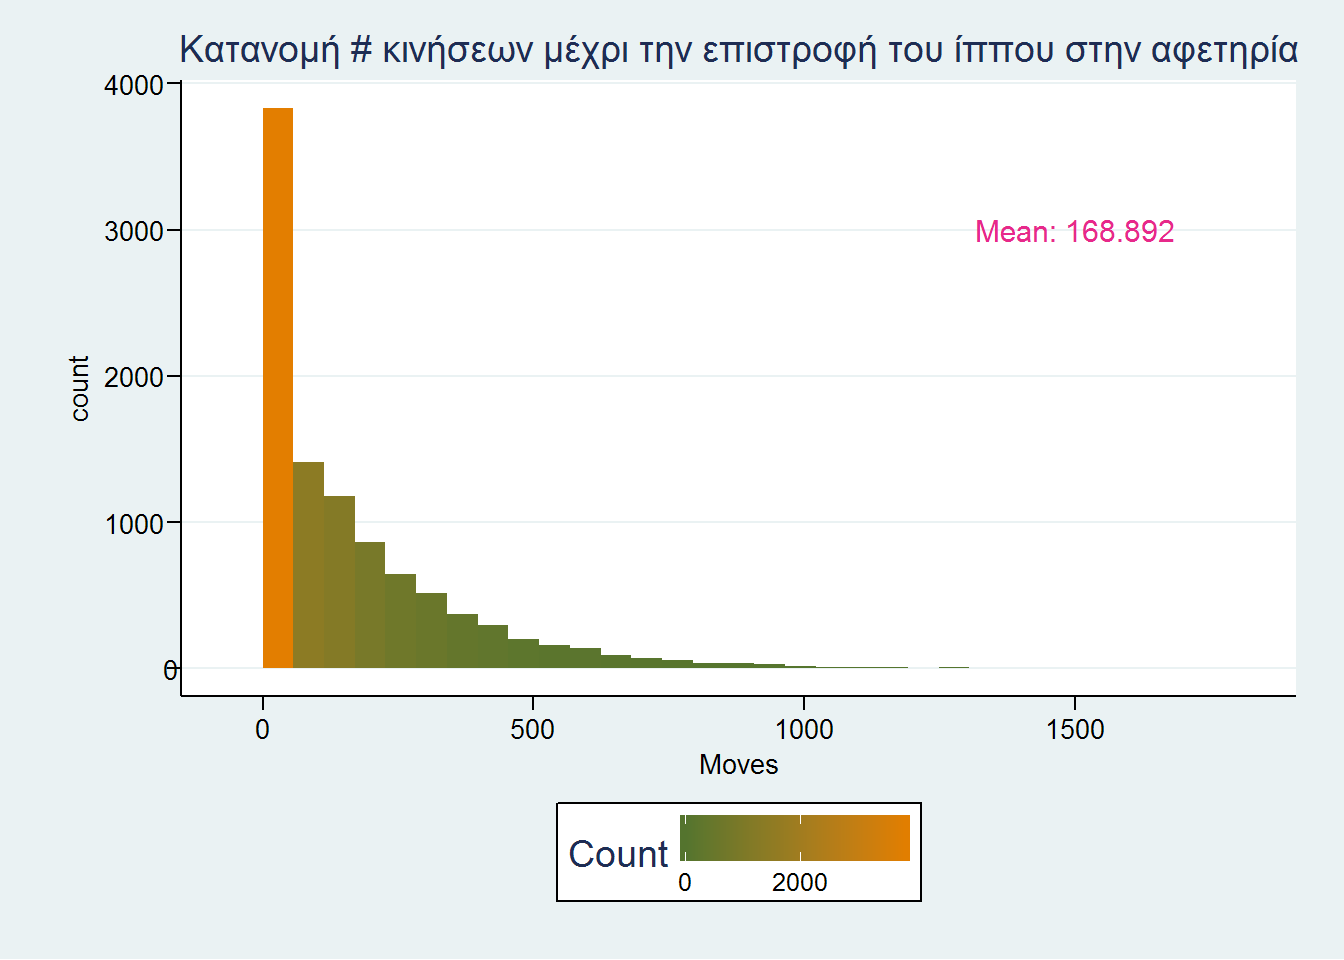
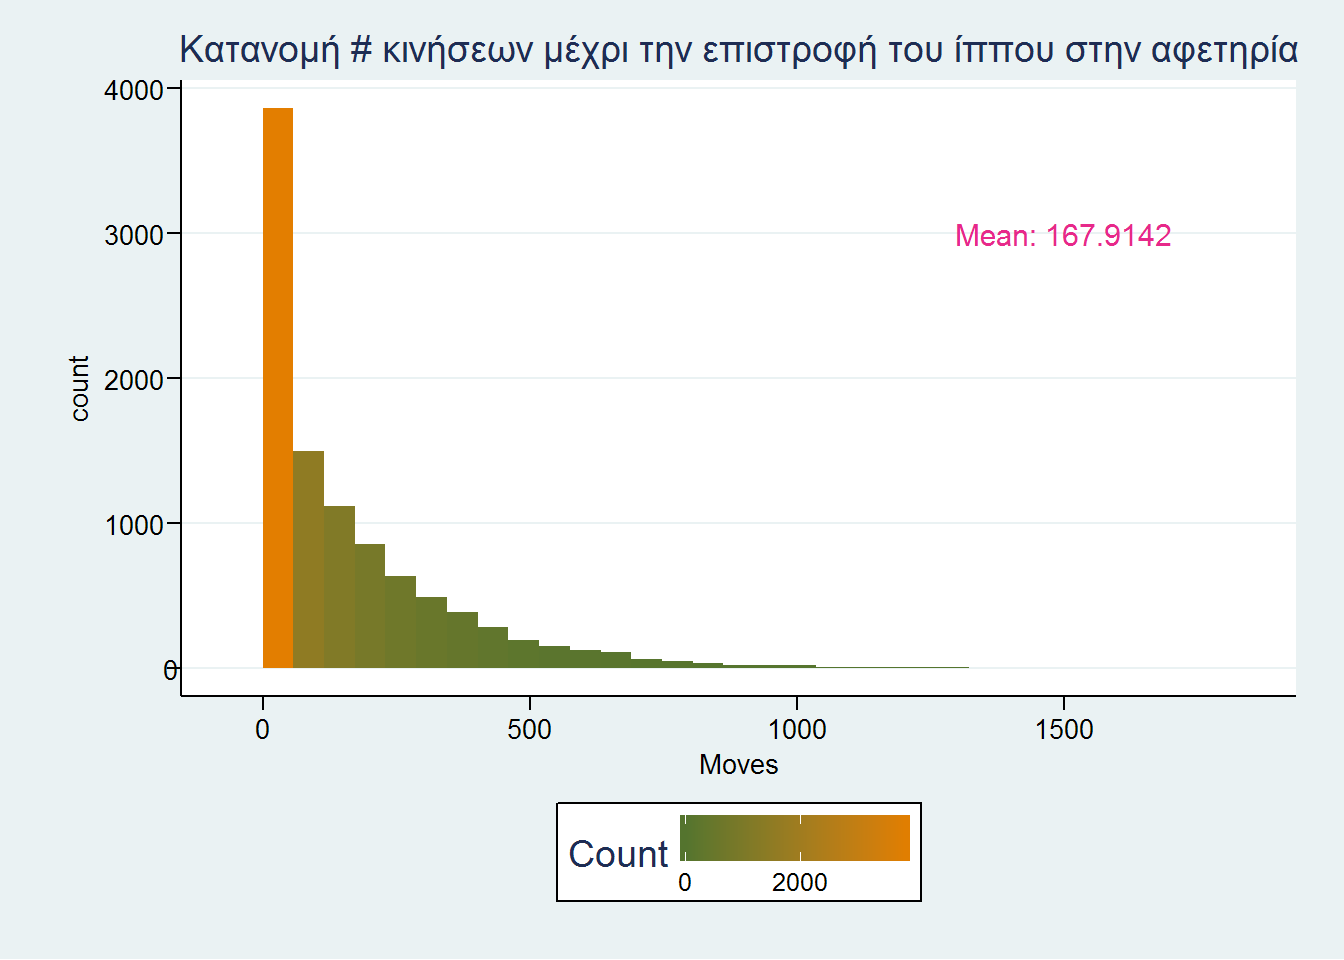
minor

diff --git a/knight_moves.html b/knight_moves.html
@@ -193,7 +193,7 @@ n.steps &lt;- function(){
 n&lt;-10000
 res&lt;-replicate(n,n.steps())
 mea &lt;- mean(res)</code></pre>
-<p>Από τα παραπάνω προκύπτει μέση τιμή ίση μέ: <strong>168.892</strong>. <br></p>
+<p>Από τα παραπάνω προκύπτει μέση τιμή ίση μέ: <strong>167.9142</strong>. <br><br></p>
 </div>
 <div id="-----------" class="section level4">
 <h4>Μια από τις διαδρομές, όπου ο ίππος καθυστέρησε να επιστρέψει στην αφετηρία</h4>
@@ -208,7 +208,7 @@ p + geom_path(aes(colour = col,size = col),alpha=.1) +
   scale_colour_gradient(low=&quot;black&quot;) +
   theme_bw()</code></pre>
 <p><img src="knight_moves_files/figure-html/unnamed-chunk-2.png" title="plot of chunk unnamed-chunk-2" alt="plot of chunk unnamed-chunk-2" width="672" style="display:block; margin:auto;" /></p>
-<p>Όσο πιο θαλασσιά και παχιά η γραμμή τόσο σε μεταγενέστερο στάδιο έγινε η κίνηση. Στην περίπτωση αυτή χρειάστηκαν <strong>1159</strong> κινήσεις για να επιστρέψει ο ίππος στο τετράγωνο (1,1). Τα τετράγωνα παριστάνονται ως σημεία στο επίπεδο με συντεταγμένες από (1,1) έως (8,8) <br></p>
+<p>Όσο πιο θαλασσιά και παχιά η γραμμή τόσο σε μεταγενέστερο στάδιο έγινε η κίνηση. Στην περίπτωση αυτή χρειάστηκαν <strong>1135</strong> κινήσεις για να επιστρέψει ο ίππος στο τετράγωνο (1,1). Τα τετράγωνα παριστάνονται ως σημεία στο επίπεδο με συντεταγμένες από (1,1) έως (8,8) <br><br></p>
 </div>
 <div id="---------" class="section level4">
 <h4>Κατανομή του αριθμού των βημάτων που απαιτήθηκαν έως την επιστροφή</h4>
@@ -229,6 +229,7 @@ m + geom_histogram(aes(fill = ..count..)) +
 <div id="-markov-chain" class="section level4">
 <h4>Χρήση Markov chain</h4>
 <p>Ο βέλτιστος όμως τρόπος λύσης (με χρήση υπολογιστή) είναι ο υπολογισμός της <span class="math">\(P(n)\)</span>, (πιθανότητα επιστροφής μετά από <span class="math">\(n\)</span> κινήσεις), ο οποίος εκτός από ακριβής είναι και πολύ ταχύτερος από την προσομοίωση. Βέβαια δεν μπορεί να υπολογιστεί το <span class="math">\(\sum_n n \cdot P(n)\)</span>, γιατί το άθροισμα έχει άπειρους όρους. Ορίζοντας τον <span class="math">\(64 \times 64\)</span> transition probability matrix και με λίγο κώδικα, μπορεί όμως να εκτιμηθεί έως τον επιθυμητό βαθμό ακρίβειας.</p>
+<p>Η βέλτιστη λύση βέβαια είναι η ακριβής μαθηματική επίλυση, η οποία αντιμετωπίζει το πρόβλημα ως τυχαίο περίπατο σε συνεκτικό γράφο. Οι κορυφές είναι τα τετράγωνα της σκακιέρας και οι ακμές αντιπροσωπεύουν τις δυνατές μετακινήσεις. Η γενική λύση είναι <span class="math">\(2Ν/k\)</span>, όπου <span class="math">\(Ν\)</span> ο αριθμός των ακμών και <span class="math">\(k\)</span> o αριθμός των ακμών που συνδέονται με το σημείο εκκίνησης. Στην περίπτωσή μας <span class="math">\(Ν=168\)</span> και <span class="math">\(k=2\)</span>.</p>
 <p>Για πλήρη επεξήγηση της μαθηματικής επίλυσης, δείτε το Κεφ. 3, σελ 9 εδώ: <a href="http://www.stat.berkeley.edu/~aldous/RWG/book.html">http://www.stat.berkeley.edu/~aldous/RWG/book.html</a></p>
 <pre class="r"><code># create the transition matrix
 x &lt;- c(1*8+2*1,
@@ -300,7 +301,7 @@ while(1){
 #   m[1,1] &lt;- 0
 # }
 # sum(pr * seq(2,n))</code></pre>
-<p>Από τα παραπάνω προκύπτει η ακριβής μέση τιμή, που είναι ίση μέ: <strong>168</strong>.</p>
+<p>Από τα παραπάνω προκύπτει η ακριβής μέση τιμή, που είναι ίση μέ: <strong>168</strong>. <br></p>
 </div>
 </div>
 <div id="-------------" class="section level3">
